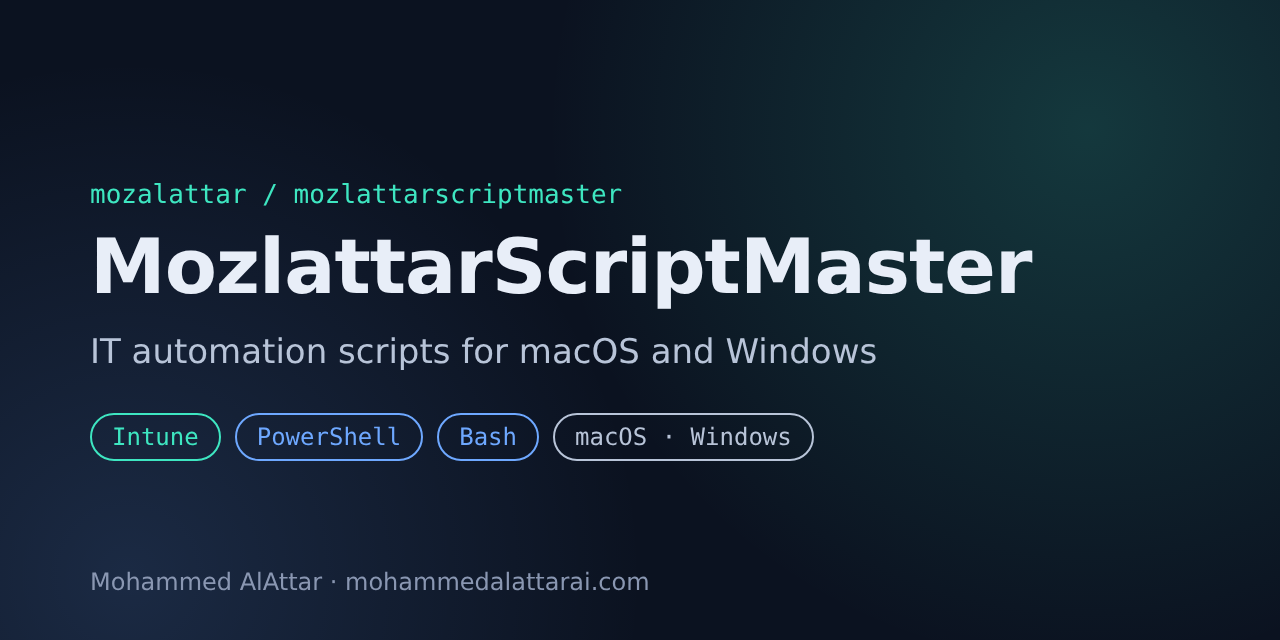
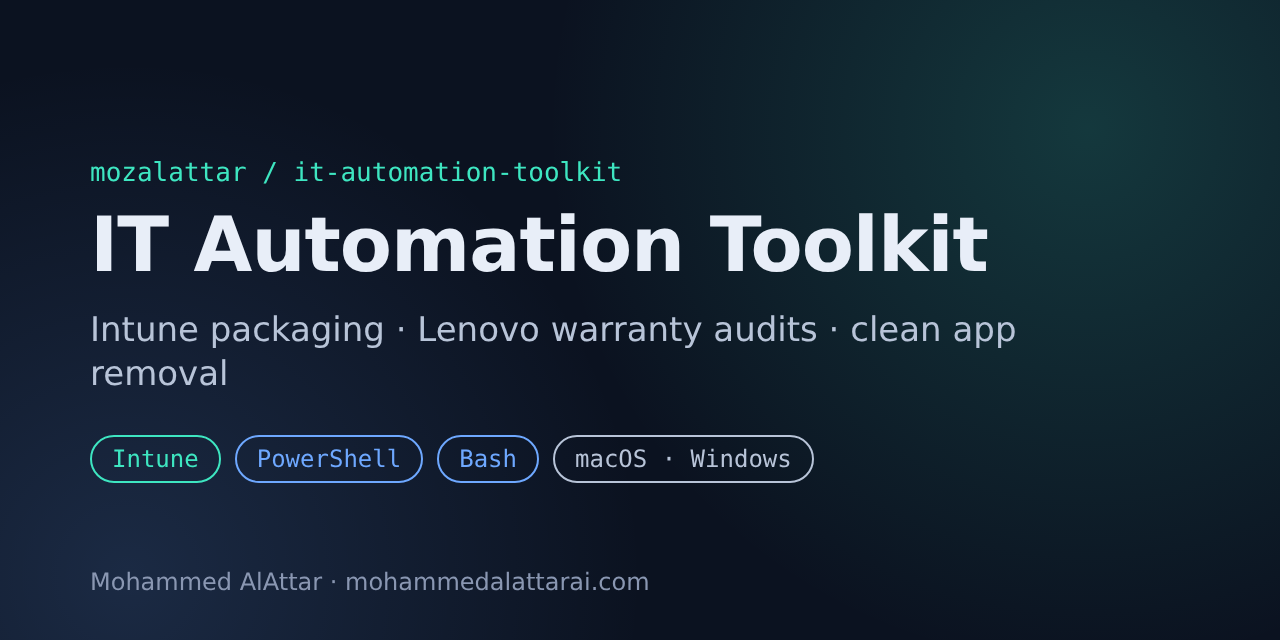
Rename to IT Automation Toolkit (it-automation-toolkit)
Claude-Session: https://claude.ai/code/session_01U9uScC34iPHPNbDLVHMqdN

Changed region(s): [[0.0625, 0.25, 0.8125, 0.7812]]

diff --git a/README.md b/README.md
@@ -1,10 +1,10 @@
-# MozlattarScriptMaster
+# IT Automation Toolkit
 
 **Practical IT automation scripts for macOS and Windows: clean app removal, Intune packaging and asset audits.**
 
-[![Lint](https://github.com/mozalattar/mozlattarscriptmaster/actions/workflows/lint.yml/badge.svg)](https://github.com/mozalattar/mozlattarscriptmaster/actions/workflows/lint.yml) [![Release](https://github.com/mozalattar/mozlattarscriptmaster/actions/workflows/release.yml/badge.svg)](https://github.com/mozalattar/mozlattarscriptmaster/releases/latest)
+[![Lint](https://github.com/mozalattar/it-automation-toolkit/actions/workflows/lint.yml/badge.svg)](https://github.com/mozalattar/it-automation-toolkit/actions/workflows/lint.yml) [![Release](https://github.com/mozalattar/it-automation-toolkit/actions/workflows/release.yml/badge.svg)](https://github.com/mozalattar/it-automation-toolkit/releases/latest)
 
-**Platforms:** macOS · Windows  |  **Languages:** Bash · PowerShell  |  **Latest release:** [v2.0.0](https://github.com/mozalattar/mozlattarscriptmaster/releases/latest)
+**Platforms:** macOS · Windows  |  **Languages:** Bash · PowerShell  |  **Latest release:** [v2.0.0](https://github.com/mozalattar/it-automation-toolkit/releases/latest)
 
 Scripts written and used in real enterprise environments (Microsoft Intune, macOS fleets, IT audits). Every script explains what it will do before it does it, and the destructive ones support a `--dry-run` mode.
 
@@ -25,8 +25,8 @@ Scripts written and used in real enterprise environments (Microsoft Intune, macO
 **macOS**
 
 ```bash
-git clone https://github.com/mozalattar/mozlattarscriptmaster.git
-cd mozlattarscriptmaster/macos/anydesk-removal
+git clone https://github.com/mozalattar/it-automation-toolkit.git
+cd it-automation-toolkit/macos/anydesk-removal
 chmod +x uninstall_anydesk.sh
 sudo ./uninstall_anydesk.sh --dry-run   # preview first
 sudo ./uninstall_anydesk.sh             # then run it
@@ -35,13 +35,13 @@ sudo ./uninstall_anydesk.sh             # then run it
 **Windows (PowerShell)**
 
 ```powershell
-git clone https://github.com/mozalattar/mozlattarscriptmaster.git
-cd mozlattarscriptmaster\windows\lenovo-warranty
+git clone https://github.com/mozalattar/it-automation-toolkit.git
+cd it-automation-toolkit\windows\lenovo-warranty
 Copy-Item serials.example.txt serials.txt   # then add your serials
 .\Run-WarrantyCheck.ps1
 ```
 
-Ready-to-run downloads (including the compiled `IntuneWinAppUtilGUI.exe`) are on the [Releases](https://github.com/mozalattar/mozlattarscriptmaster/releases) page.
+Ready-to-run downloads (including the compiled `IntuneWinAppUtilGUI.exe`) are on the [Releases](https://github.com/mozalattar/it-automation-toolkit/releases) page.
 
 ## Using them safely
 
@@ -53,7 +53,7 @@ Ready-to-run downloads (including the compiled `IntuneWinAppUtilGUI.exe`) are on
 ## Repository layout
 
 ```
-mozlattarscriptmaster/
+it-automation-toolkit/
 ├── macos/
 │   ├── anydesk-removal/      uninstall_anydesk.sh
 │   ├── cache-cleaner/        clear_caches.sh
@@ -79,7 +79,7 @@ Education: Master's in Computer Security Engineering & Artificial Intelligence.
 
 ## Feedback and security
 
-Found a bug or have an idea? [Open an issue](https://github.com/mozalattar/mozlattarscriptmaster/issues). For security problems, see [SECURITY.md](SECURITY.md).
+Found a bug or have an idea? [Open an issue](https://github.com/mozalattar/it-automation-toolkit/issues). For security problems, see [SECURITY.md](SECURITY.md).
 
 ## License
 

diff --git a/windows/intunewin-gui/README.md b/windows/intunewin-gui/README.md
@@ -26,7 +26,7 @@ IntuneWinAppUtil GUI is a PowerShell-based graphical interface for the Microsoft
      ```
 
 2. **Download the Files**:
-   - Download `IntuneWinAppUtilGUI.exe` from the [Releases](https://github.com/mozalattar/mozlattarscriptmaster/releases) page, or clone this repository to use the `.ps1`.
+   - Download `IntuneWinAppUtilGUI.exe` from the [Releases](https://github.com/mozalattar/it-automation-toolkit/releases) page, or clone this repository to use the `.ps1`.
    - Download `IntuneWinAppUtil.exe` from the Microsoft repository.
 
 3. **Setup**:
@@ -37,7 +37,7 @@ IntuneWinAppUtil GUI is a PowerShell-based graphical interface for the Microsoft
    - `IntuneWinAppUtil.exe`
 
    **EXE (portable) mode**
-   - `IntuneWinAppUtilGUI.exe` (download it from the [Releases](https://github.com/mozalattar/mozlattarscriptmaster/releases) page)
+   - `IntuneWinAppUtilGUI.exe` (download it from the [Releases](https://github.com/mozalattar/it-automation-toolkit/releases) page)
    - `IntuneWinAppUtil.exe`
 
 ## Usage

diff --git a/windows/lenovo-warranty/README.md b/windows/lenovo-warranty/README.md
@@ -179,4 +179,4 @@ This tool was purpose-built to support IT General Control Reviews and asset audi
 Built by **Mohammed AlAttar**, IT manager and systems engineer with 19+ years of IT experience. More about the author, other tools and contact details in the [main README](../../README.md#about-the-author).
 
 ---
-Part of [MozlattarScriptMaster](../../README.md) · See the [LICENSE](../../LICENSE)
+Part of [IT Automation Toolkit](../../README.md) · See the [LICENSE](../../LICENSE)

diff --git a/macos/defender-removal/README.md b/macos/defender-removal/README.md
@@ -38,4 +38,4 @@ Upload `uninstall_defender.sh` under **Devices → macOS → Shell scripts** and
 Microsoft reference: [Uninstall Defender for Endpoint on Mac](https://learn.microsoft.com/defender-endpoint/mac-resources#uninstalling)
 
 ---
-Part of [MozlattarScriptMaster](../../README.md) · by Mohammed AlAttar
+Part of [IT Automation Toolkit](../../README.md) · by Mohammed AlAttar

diff --git a/macos/anydesk-removal/README.md b/macos/anydesk-removal/README.md
@@ -28,4 +28,4 @@ sudo ./uninstall_anydesk.sh             # remove, asks before starting
 The script cleans every user's folder when run as root, so it works as an Intune or Jamf shell script. Run it as **root** with `--yes`.
 
 ---
-Part of [MozlattarScriptMaster](../../README.md) · by Mohammed AlAttar
+Part of [IT Automation Toolkit](../../README.md) · by Mohammed AlAttar

diff --git a/CHANGELOG.md b/CHANGELOG.md
@@ -1,5 +1,9 @@
 # Changelog
 
+## 2.0.1 (November 2026)
+- The repository is renamed from `mozlattarscriptmaster` to **`it-automation-toolkit`**. Old links redirect automatically.
+- New issue forms, social preview image and GitHub-hosted badges.
+
 ## 2.0.0 (November 2026)
 
 A full clean-up of the repository.

diff --git a/macos/cache-cleaner/README.md b/macos/cache-cleaner/README.md
@@ -25,4 +25,4 @@ chmod +x clear_caches.sh
 - Only your own caches are touched; system files and other users are left alone.
 
 ---
-Part of [MozlattarScriptMaster](../../README.md) · by Mohammed AlAttar
+Part of [IT Automation Toolkit](../../README.md) · by Mohammed AlAttar
